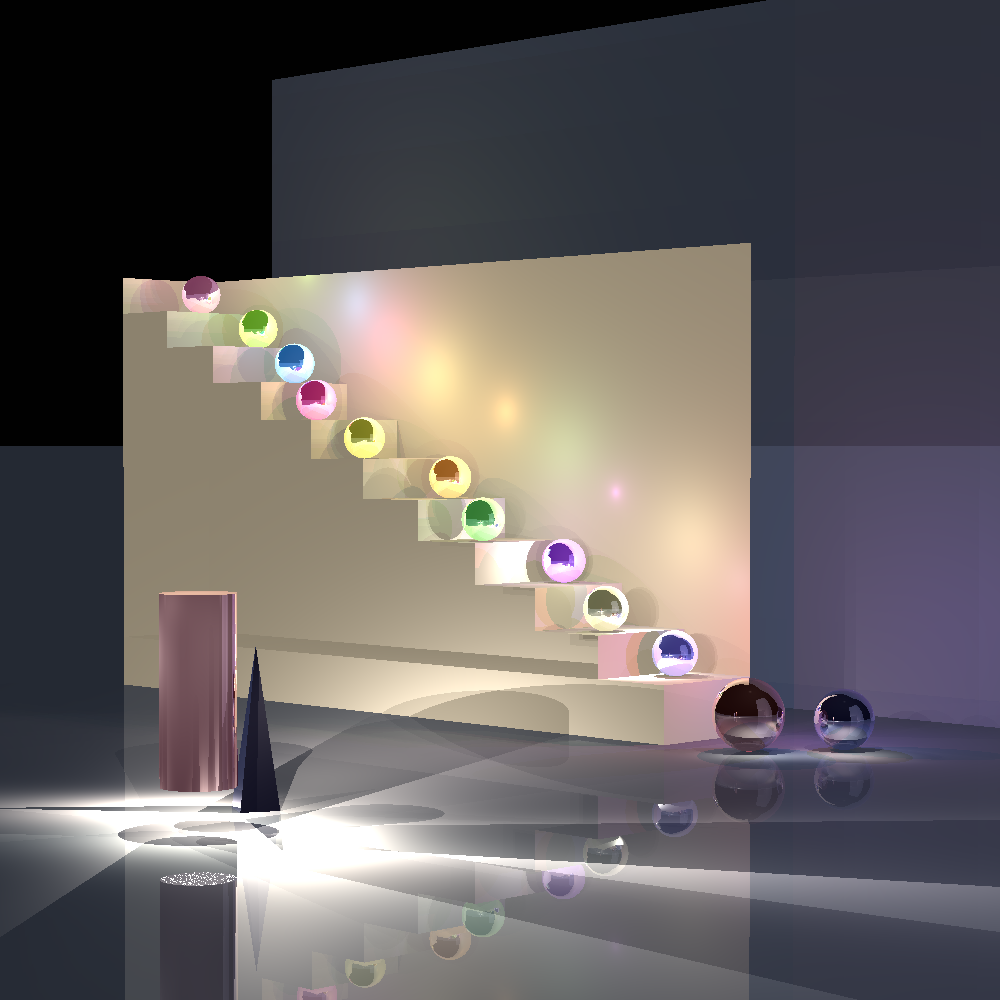
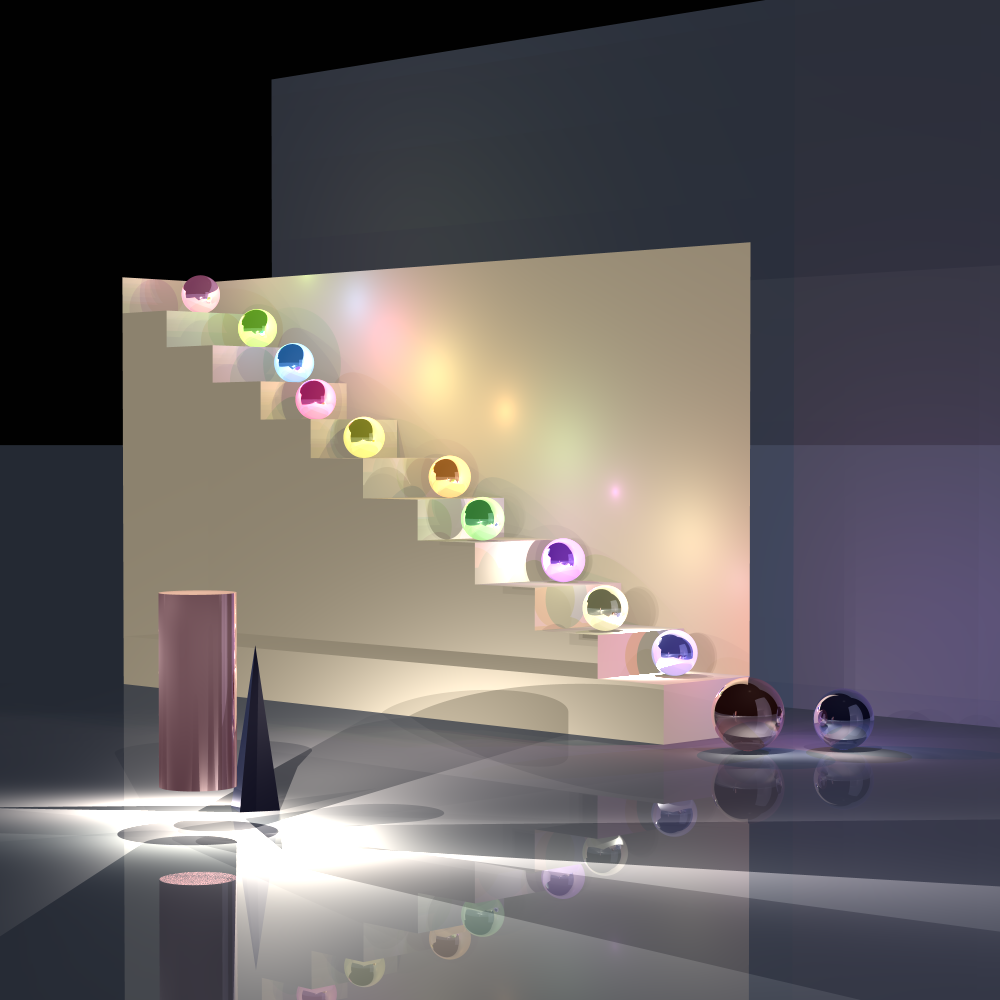
finish

diff --git a/src/renderer/Camera.java b/src/renderer/Camera.java
@@ -13,7 +13,7 @@ import static primitives.Util.isZero;
  * @author Hadas_Shor, Nurit_Ezra
  */
 public class Camera implements Cloneable {
-
+   private  static final Random random = new Random();
     /**
      * Number of threads for rendering the image.
      */
@@ -47,12 +47,12 @@ public class Camera implements Cloneable {
     /**
      * Default grid size for anti-aliasing
      */
-    private int AA_GRID_SIZE = 9;
+    private int AA_GRID_SIZE =4 ;
 
     /**
      * Flag to enable or disable adaptive anti-aliasing.
      */
-    private boolean ADAPTIVE_AA_FLAG = false;
+    private boolean ADAPTIVE_AA_FLAG = true;
 
     /**
      * Maximum recursion depth for adaptive antialiasing.
@@ -282,7 +282,7 @@ public class Camera implements Cloneable {
     public List<Ray> constructRaysJ(int nX, int nY, int j, int i) {
 
         List<Ray> rays = new ArrayList<>();
-        Random random = new Random();
+
         double Ry = height / nY;
         double Rx = width / nX;
         double stepY = Ry / AA_GRID_SIZE;
@@ -295,11 +295,14 @@ public class Camera implements Cloneable {
 
                 double offsetI = (subI + jitterY) * stepY;
                 double offsetJ = (subJ + jitterX) * stepX;
+                // Calculate the pixel center coordinates
                 double Yi = -(i - (nY - 1) / 2d) * Ry + offsetI;
                 double Xj = (j - (nX - 1) / 2d) * Rx + offsetJ;
+
                 Point pIJ = p0;
                 if (!isZero(Xj)) pIJ = pIJ.add(vRight.scale(Xj));
                 if (!isZero(Yi)) pIJ = pIJ.add(vUp.scale(Yi));
+                // Calculate the center of the pixel in the view plane
                 pIJ = pIJ.add(vTo.scale(distance)); // pIJ is the center of the pixel in the view plane
 
                 Ray ray = new Ray(p0, pIJ.subtract(p0).normalize());
@@ -313,7 +316,7 @@ public class Camera implements Cloneable {
      * Casts rays for a specific pixel in the image and writes the resulting color.
      *
      * This method handles the ray casting process for an individual pixel (j,i) in the image:
-     * 1. Constructs multiple rays for the pixel (for anti-aliasing or supersampling)
+     * 1. Constructs multiple rays for the pixel ( supersampling)
      * 2. Traces each ray to determine its color contribution
      * 3. Averages all color contributions from the rays
      * 4. Writes the final color to the output image
